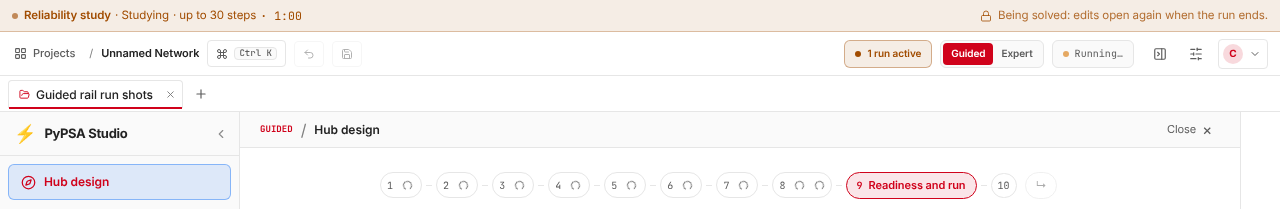
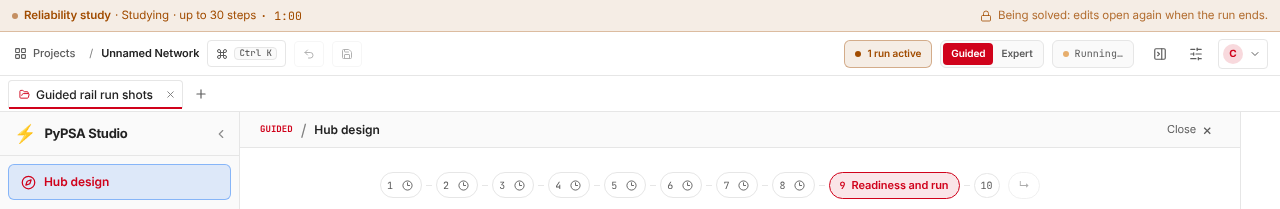
Rail: static clock for run in progress, one mark on the scenarios step
Claude-Session: https://claude.ai/code/session_01G7qCuo7snP4TRYiGGrB3C8

diff --git a/pypsa-gui/frontend/src/components/FlowStateDot.tsx b/pypsa-gui/frontend/src/components/FlowStateDot.tsx
@@ -1,4 +1,4 @@
-import { Check, Loader2, Minus } from 'lucide-react'
+import { Check, Clock3, Minus } from 'lucide-react'
 import { FLOW_STATE_WORDS, type FlowSectionState } from '../api/flow'
 
 /** One section's state as a mark (design §3.2): a tick, an amber dot, an open
@@ -16,7 +16,7 @@ export function FlowStateDot({ state, testId, running = false }: { state: FlowSe
     : s === 'warning' ? <span className="block h-2 w-2 rounded-full bg-warn" />
       : s === 'incomplete' ? <span className="block h-2 w-2 rounded-full border-2 border-danger" />
         : s === 'not_needed' ? <Minus size={11} className="text-muted" />
-          : busy ? <Loader2 size={11} className="motion-safe:animate-spin text-muted" />
+          : busy ? <Clock3 size={11} className="text-muted" />
           : <span className="text-[10px] font-semibold leading-none text-muted">?</span>
   return (
     <span data-testid={testId} data-state={s} role="img" aria-label={word} title={word}

diff --git a/pypsa-gui/frontend/src/pages/hubDesign/StepRail.tsx b/pypsa-gui/frontend/src/pages/hubDesign/StepRail.tsx
@@ -90,7 +90,7 @@ function RailButton({ id, testId, ...props }: RailProps & { id: FlowSectionId; t
         <span className={bs === 'current' ? '' : 'hidden min-[1600px]:inline'}>{meta.label}</span>
         {bs === 'current' && <span className="hidden min-[1600px]:contents"><ScopeChips section={id} testId="hub-rail-scope-chips" /></span>}
         {!stateless && bs !== 'blocked' && <FlowStateDot state={isError ? null : state} running={running} />}
-        {id === 'scenarios' && props.flow === 'running' && (
+        {id === 'scenarios' && props.flow === 'running' && !running && (
           <Loader2 size={11} className="animate-spin" data-testid="hub-rail-spinner" />
         )}
       </button>
